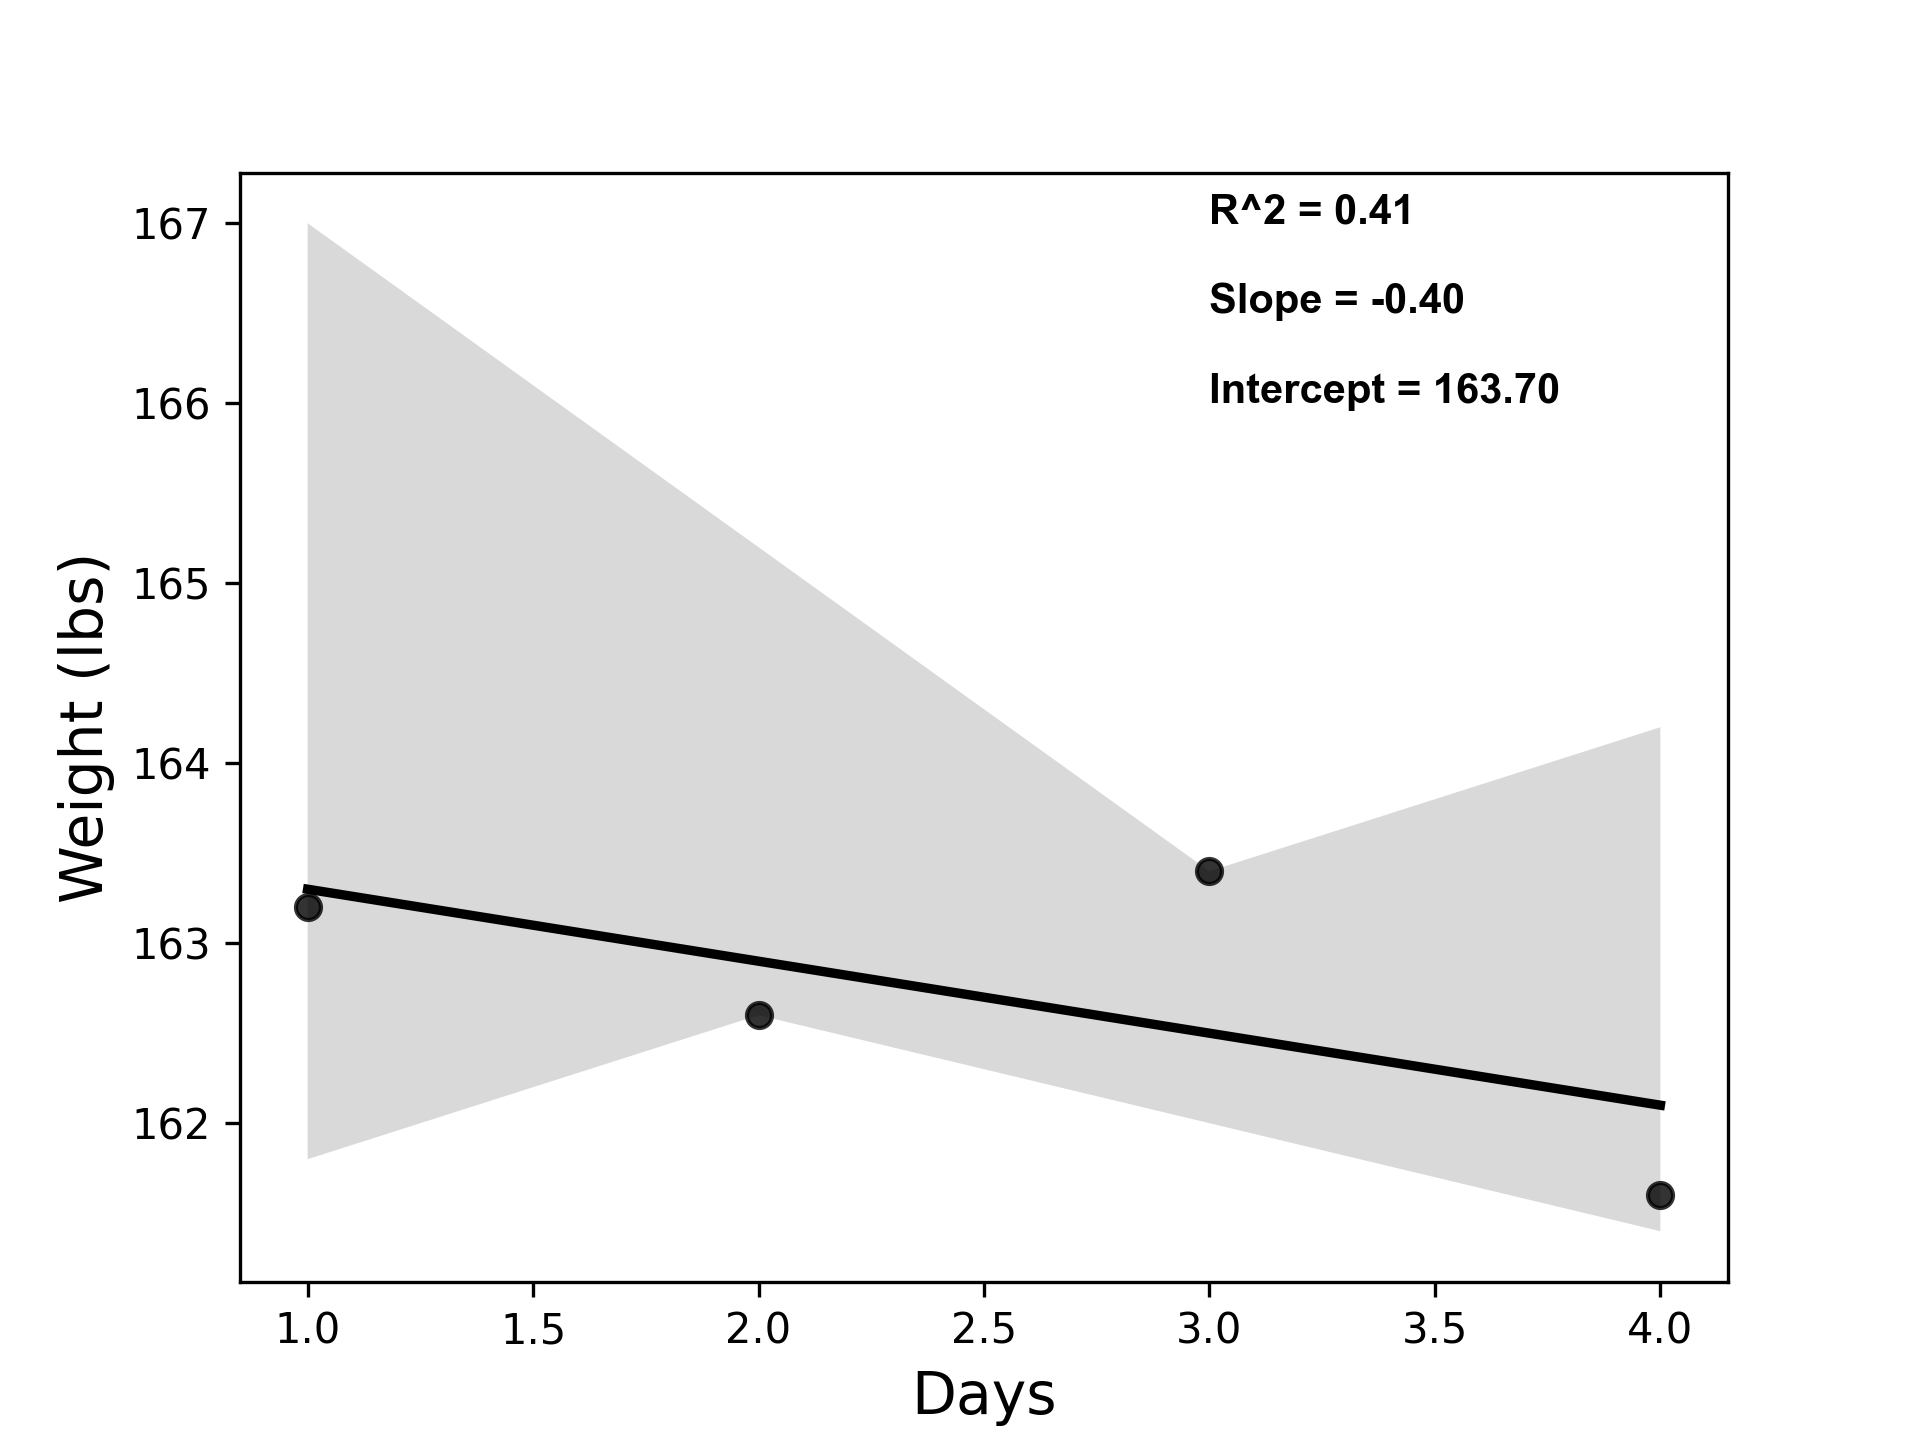
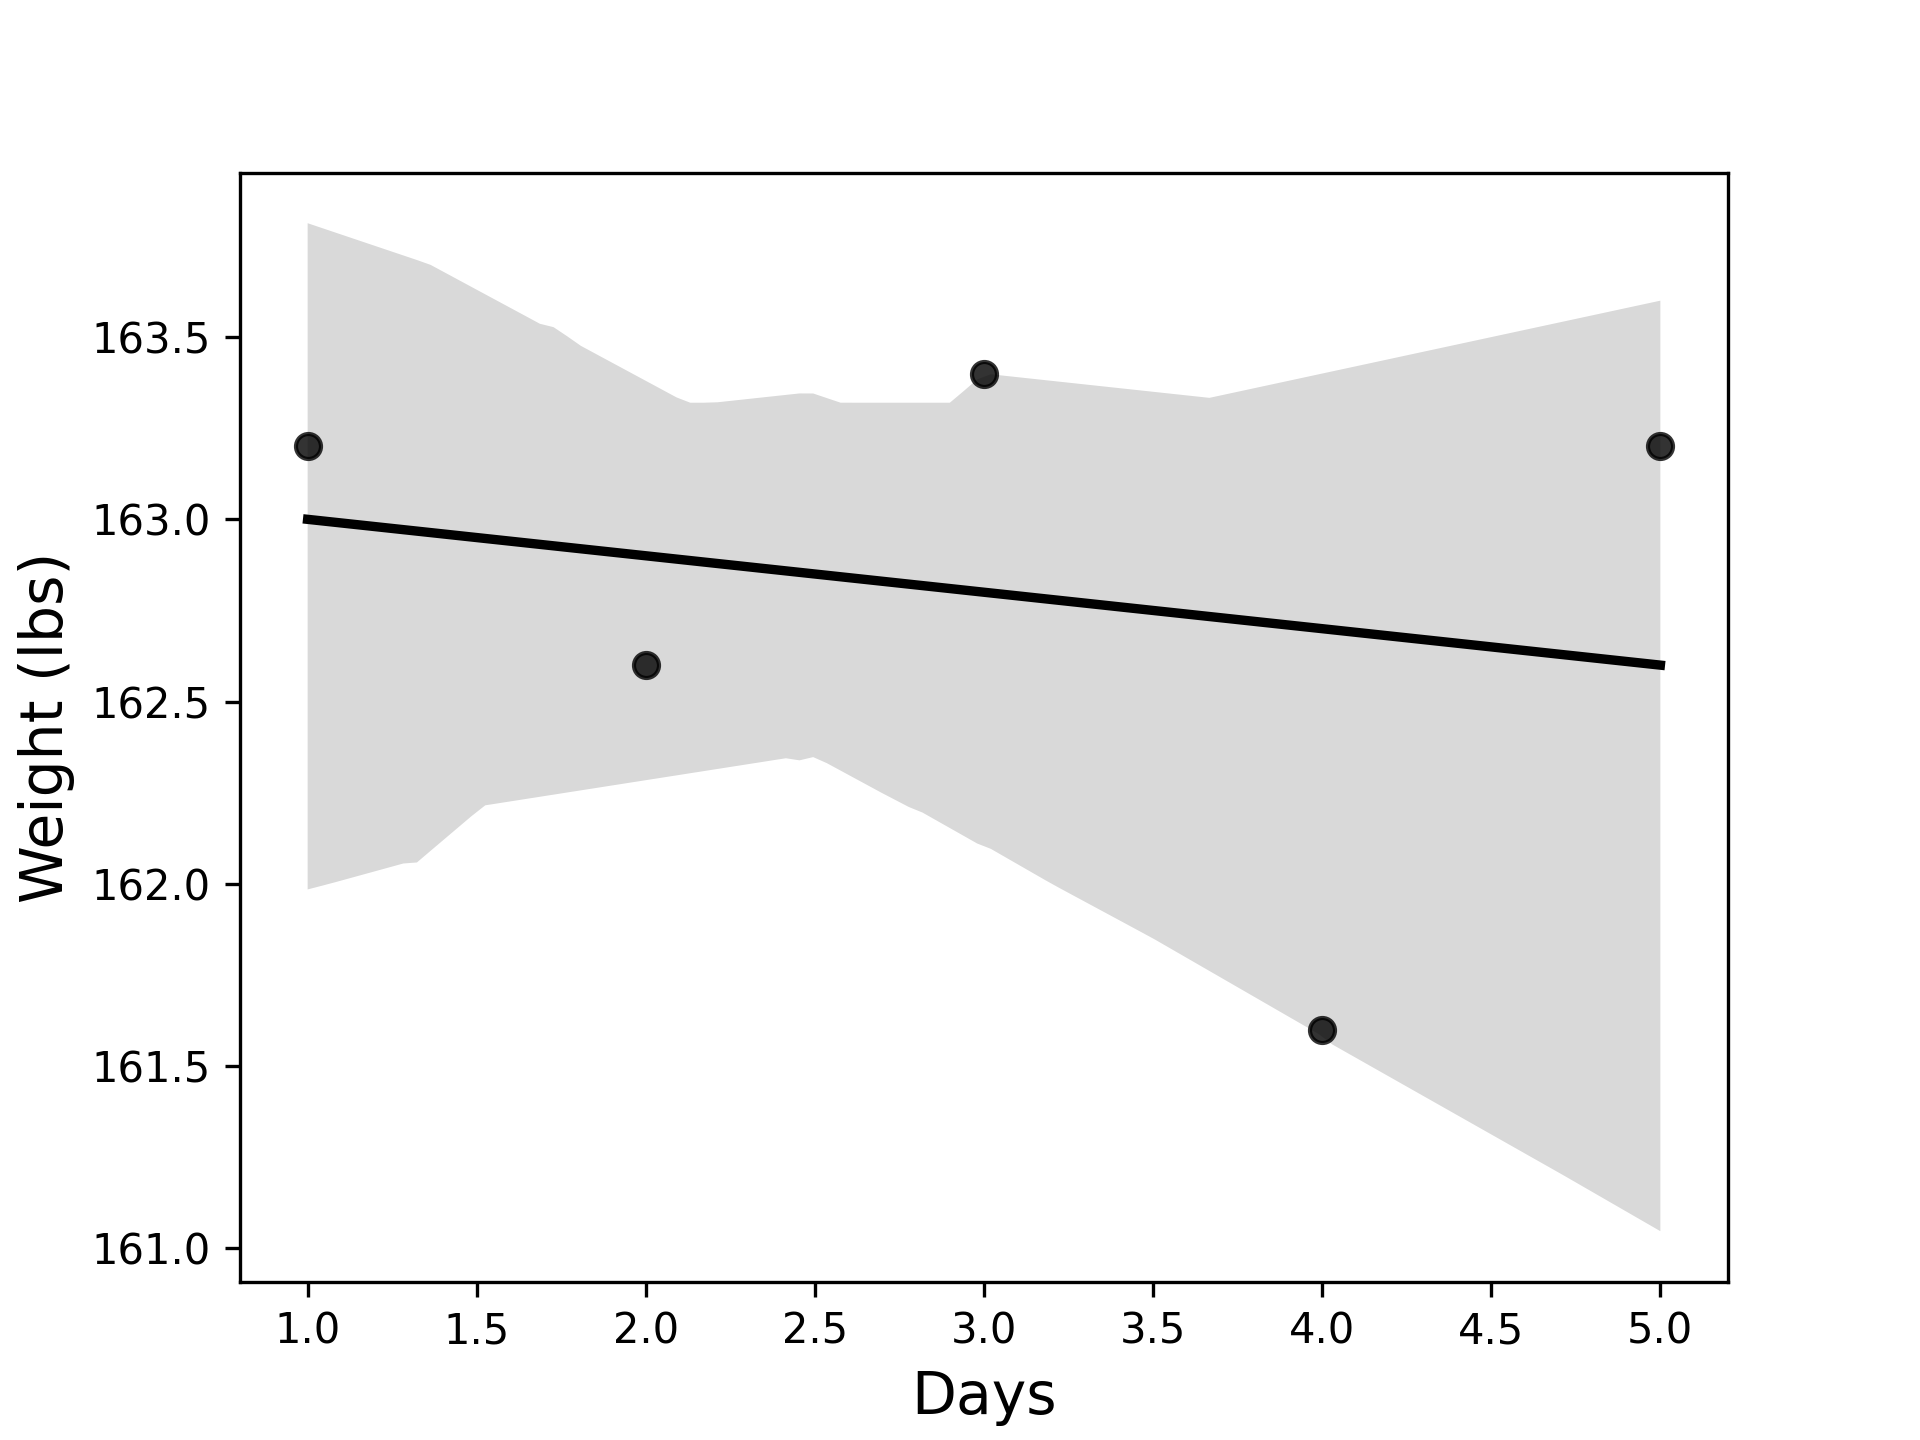
Created weight.py and weight.png

diff --git a/Weight.py b/Weight.py
@@ -5,7 +5,7 @@ import matplotlib.pyplot as plt
 import seaborn as sns
 
 # Creates an array of elapsed days and assigns it to days_elapsed
-days_elapsed = np.array([1, 2, 3 ,4]).reshape(-1,1)
+days_elapsed = np.array([1, 2, 3 ,4, 5]).reshape(-1,1)
 weight = np.array([163.2, 162.6, 163.4, 161.6, 163.2])
 
 # Instantiates a LinearRegression model and fits it to the above arrays
